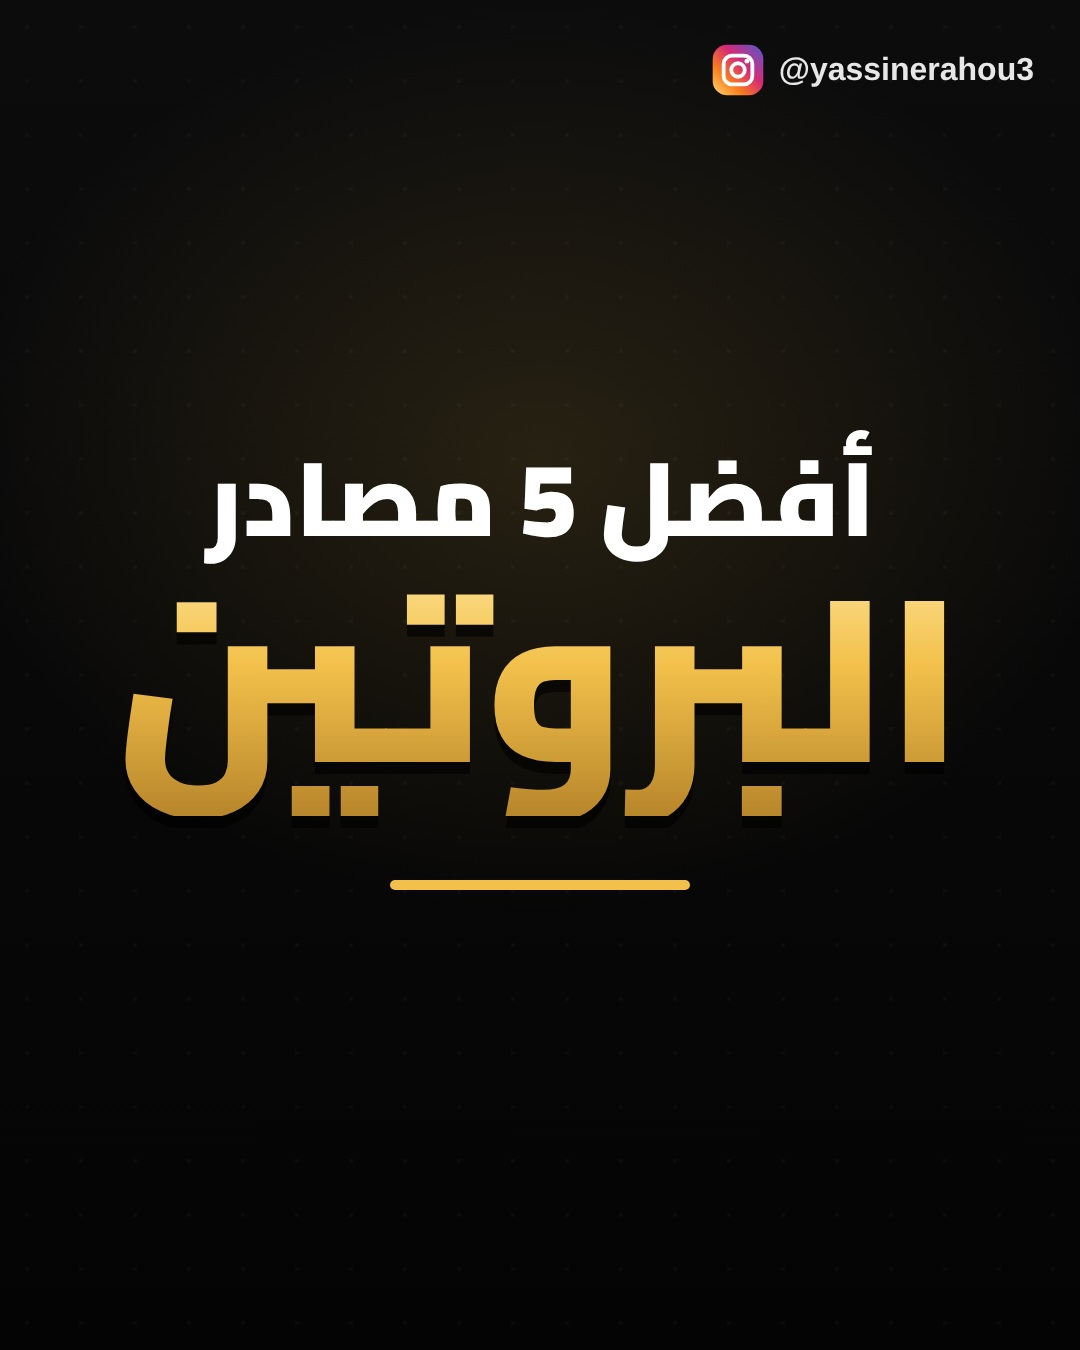
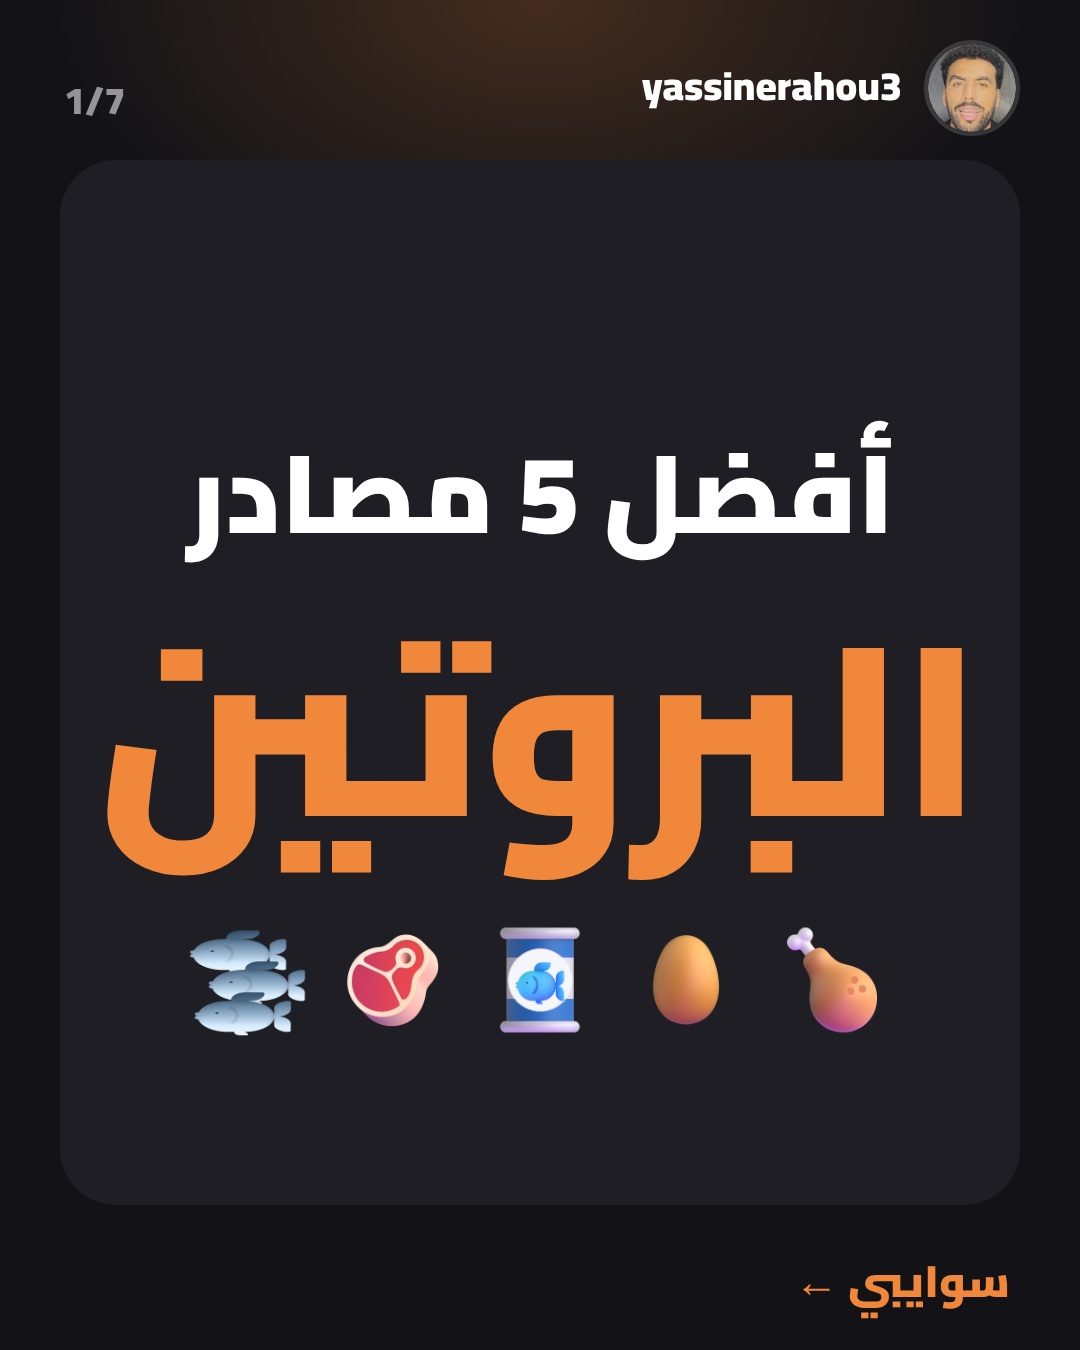
Protein carousel: new card layout (big protein number, info pill, swipe hint)
Standalone protein.html; old protein code removed from carousel.html.
The round avatar is cropped from the user's photo, kept out of git.

Claude-Session: https://claude.ai/code/session_014GNevuJ6MBkHeS731WNJp8

diff --git a/creatine-clip/thumbnails/carousel.html b/creatine-clip/thumbnails/carousel.html
@@ -53,58 +53,6 @@
   .ocard.wrap p { white-space: normal; font-size: 42px; line-height: 1.5; }
   .cta.low { top: 1050px; height: 230px; }
   .ocard.wrap p + p { margin-top: 18px; padding-top: 18px; border-top: 2px solid rgba(255,255,255,.08); }
-  /* protein post */
-  .hook1.ph1 { top: 150px; font-size: 84px; }
-  .hook2.ph2 { top: 250px; }
-  .hook2.ph2 .b { font-size: 150px; line-height: 1.2; }
-  .frame.pframe { top: 520px; gap: 16px; padding: 28px; }
-  .prow { height: 124px; border-radius: 28px; background: #141416; border: 3px solid rgba(255,255,255,.08);
-          display: flex; align-items: center; gap: 28px; padding: 0 28px 4px; }
-  .prow .pn { width: 70px; height: 70px; border-radius: 50%; background: var(--gold); color: var(--ink); font-size: 44px;
-              display: flex; align-items: center; justify-content: center; padding-bottom: 4px; flex: none; }
-  .prow .pic { width: 92px; height: 92px; border-radius: 22px; background: #fff; display: flex; align-items: center; justify-content: center; flex: none; }
-  .prow .pic img { width: 70%; height: 70%; }
-  .prow .pnm { font-size: 60px; }
-  .fname { font-size: 104px; direction: rtl; top: 180px; }
-  .fserv { top: 312px; font-size: 42px; font-weight: 700; color: rgba(255,255,255,.85); }
-  .fcard { left: 380px; top: 410px; width: 320px; height: 320px; border-radius: 70px; background: #fff; display: flex; align-items: center; justify-content: center;
-           box-shadow: 0 0 0 10px rgba(243,193,75,.25), 0 18px 0 rgba(0,0,0,.5); }
-  .fcard img { width: 66%; height: 66%; }
-  .stats { left: 70px; width: 940px; top: 800px; display: flex; gap: 24px; }
-  .st { flex: 1; height: 250px; border-radius: 36px; background: #141416; border: 3px solid rgba(255,255,255,.1);
-        display: flex; flex-direction: column; align-items: center; justify-content: center; gap: 4px; }
-  .st small { font-size: 40px; color: rgba(255,255,255,.75); }
-  .st b { font-size: 76px; line-height: 1.1; direction: ltr; white-space: nowrap; }
-  .st b i { font-style: normal; font-size: 32px; margin-left: 6px; color: rgba(255,255,255,.7); }
-  .st.main { background: linear-gradient(180deg, #ffe08a, #e3a92f); border-color: #ffe08a; color: var(--ink); }
-  .st.main small { color: rgba(11,13,16,.75); }
-  .st.main b { font-size: 92px; }
-  .fnote { left: 0; width: 1080px; top: 1095px; text-align: center; font-size: 34px; line-height: 1.5; color: rgba(255,255,255,.55); font-weight: 700; }
-  .ocard.tip { top: 330px; }
-  .ocard.tip p { font-size: 54px; }
-  /* protein post — 'pro' look */
-  #stage.pro { background: radial-gradient(900px 700px at 50% 34%, rgba(243,193,75,.13), transparent 65%), linear-gradient(180deg, #0c0c0d 0%, #040404 100%); }
-  .pt1 { left: 0; width: 1080px; top: 400px; text-align: center; font-size: 104px; }
-  .pt2 { left: 0; width: 1080px; top: 540px; text-align: center; font-size: 230px; line-height: 1.2; filter: drop-shadow(0 12px 0 rgba(0,0,0,.6)); }
-  .ptline { left: 390px; top: 880px; width: 300px; height: 10px; border-radius: 5px; background: var(--gold); }
-  .bignum { left: 0; width: 1080px; top: 70px; text-align: center; font-size: 560px; line-height: 1; direction: ltr;
-            color: transparent; -webkit-text-stroke: 4px rgba(243,193,75,.16); }
-  .glow { left: 240px; top: 150px; width: 600px; height: 560px; border-radius: 50%; background: radial-gradient(closest-side, rgba(243,193,75,.38), rgba(243,193,75,0)); }
-  .fimg { left: 330px; top: 200px; width: 420px; height: 420px; display: flex; align-items: center; justify-content: center; }
-  .fimg img { width: 100%; height: 100%; object-fit: contain; filter: drop-shadow(0 26px 26px rgba(0,0,0,.6)); }
-  .fshadow { left: 380px; top: 640px; width: 320px; height: 40px; border-radius: 50%; background: radial-gradient(closest-side, rgba(0,0,0,.75), transparent); }
-  .fname2 { left: 0; width: 1080px; top: 690px; text-align: center; font-size: 112px; line-height: 1.2; }
-  .fserv2 { left: 0; width: 1080px; top: 830px; text-align: center; font-size: 40px; font-weight: 700; color: rgba(255,255,255,.8); }
-  .stats2 { left: 70px; width: 940px; top: 920px; display: flex; gap: 22px; }
-  .st2 { flex: 1; height: 230px; border-radius: 34px; background: rgba(255,255,255,.05); border: 2px solid rgba(255,255,255,.14);
-         display: flex; flex-direction: column; align-items: center; justify-content: center; gap: 2px; }
-  .st2 small { font-size: 38px; color: rgba(255,255,255,.7); }
-  .st2 b { font-size: 74px; line-height: 1.1; direction: ltr; white-space: nowrap; }
-  .st2 b i { font-style: normal; font-size: 30px; margin-left: 6px; color: rgba(255,255,255,.6); }
-  .st2.main { background: linear-gradient(180deg, #ffe08a, #e3a92f); border-color: #ffe08a; color: var(--ink); box-shadow: 0 0 40px rgba(243,193,75,.35); }
-  .st2.main small { color: rgba(11,13,16,.75); }
-  .st2.main b { font-size: 90px; }
-  .fnote2 { left: 0; width: 1080px; top: 1185px; text-align: center; font-size: 32px; line-height: 1.5; color: rgba(255,255,255,.5); font-weight: 700; }
   /* session slides (same look as the video day pages) */
   .dchip { left: 0; width: 1080px; top: 116px; display: flex; justify-content: center; }
   .dchip span { height: 66px; padding: 0 34px 6px; border-radius: 33px; border: 4px solid var(--gold); color: var(--gold); font-size: 40px; line-height: 56px; }
@@ -155,7 +103,7 @@
 <script>
   // ?set=bro (BRO SPLIT, default) or ?set=ul (UPPER / LOWER): loads that video's program data
   const SET = new URLSearchParams(location.search).get('set') || 'bro';
-  if (SET !== 'protein') document.write(`<script src="../clips/${SET === 'ul' ? '07-upper-lower' : '06-bro-split'}/timeline.js"><\/script>`);
+  document.write(`<script src="../clips/${SET === 'ul' ? '07-upper-lower' : '06-bro-split'}/timeline.js"><\/script>`);
 </script>
 <script>
 const root = document.getElementById('content');
@@ -168,7 +116,7 @@ const ICON = {
 };
 const cta = (items) => el('cta', `<div class="t">إلى عجبك البوسط</div><div class="i">${items.map(([k, w]) => `<div>${ICON[k]}${w}</div>`).join('')}</div>`);
 
-const TRAIN = window.TL ? TL.pages.filter((p) => !p.rest) : [];
+const TRAIN = TL.pages.filter((p) => !p.rest);
 const CFG = {
   bro: {
     hook: () => {
@@ -204,45 +152,10 @@ const CFG = {
     },
   },
 }[SET];
-// ---- protein post: values are approximate (USDA FoodData Central) ----
-const FOODS = [
-  { name: 'صدر الدجاج', img: 'chicken', serving: '100g مطيب', p: '31g', kcal: '165', fat: '3.6g' },
-  { name: 'البيض', img: 'egg', serving: 'بيضة وحدة كبيرة (50g تقريبا)', p: '6.3g', kcal: '72', fat: '4.8g' },
-  { name: 'الطون', img: 'tuna', serving: '100g مصفي (طون فالما)', p: '26g', kcal: '116', fat: '0.8g', note: 'إلا كان فالزيت: 198 سعرة و 8g دهون' },
-  { name: 'اللحم', img: 'meat', serving: '100g لحم بقري قليل الدهون، مطيب', p: '26g', kcal: '217', fat: '12g' },
-  { name: 'السردين', img: 'sardines', serving: '100g (حك فالزيت، مصفي)', p: '25g', kcal: '208', fat: '11g' },
-];
-function renderProtein(slide) {
-  document.getElementById('stage').classList.add('pro');
-  if (slide === 1) {
-    el('pt1', 'أفضل 5 مصادر');
-    el('pt2 goldtxt', 'البروتين');
-    el('ptline', '');
-  } else if (slide <= FOODS.length + 1) {
-    const f = FOODS[slide - 2];
-    el('bignum', String(slide - 1).padStart(2, '0'));
-    el('glow', '');
-    el('fimg', `<img src="../food3d/${f.img}.png">`);
-    el('fshadow', '');
-    el('fname2 goldtxt', f.name);
-    el('fserv2', f.serving);
-    el('stats2', `<div class="st2 main"><small>بروتين</small><b>${f.p}</b></div><div class="st2"><small>سعرات</small><b>${f.kcal}<i>kcal</i></b></div><div class="st2"><small>دهون</small><b>${f.fat}</b></div>`);
-    el('fnote2', (f.note ? f.note + '<br>' : '') + 'القيم تقريبية');
-  } else {
-    el('otitle goldtxt high', 'نصيحة');
-    el('ocard wrap tip', `<p><span class="g">البروتين</span> من بين أهم العناصر الغذائية لبناء العضلات.</p><p>ختار داك الشي اللي عندك.</p>`);
-    cta([['like', 'لايك'], ['follow', 'فلو'], ['comment', 'كومنت'], ['save', 'سيف']]);
-    const c = document.querySelector('.cta');
-    c.classList.add('low');
-    c.querySelector('.t').textContent = 'سيف البوسط باش ترجع ليه';
-  }
-}
-const N = SET === 'protein' ? FOODS.length + 2 : 2 + TRAIN.length;
+const N = 2 + TRAIN.length;
 const slide = +(new URLSearchParams(location.search).get('slide') || 1);
 
-if (SET === 'protein') {
-  renderProtein(slide);
-} else if (slide === 1) {
+if (slide === 1) {
   const week = CFG.hook();
   el('frame' + (SET === 'ul' ? ' big' : ''), week.map(([d, w, cls]) => `<div class="wk${w === 'راحة' ? ' rest' : ''}"><div class="d goldtxt">${d}</div><div class="w ${cls || ''}">${w}</div></div>`).join(''));
 } else if (slide <= 1 + TRAIN.length) {

diff --git a/creatine-clip/thumbnails/protein.html b/creatine-clip/thumbnails/protein.html
@@ -1,0 +1,106 @@
+<!DOCTYPE html>
+<html lang="ar" dir="rtl">
+<head>
+<meta charset="utf-8">
+<title>Top 5 protein sources</title>
+<style>
+  @font-face { font-family: Cairo; font-weight: 700; src: url(../fonts/cairo-arabic-700-normal.woff2) format('woff2'); }
+  @font-face { font-family: Cairo; font-weight: 900; src: url(../fonts/cairo-arabic-900-normal.woff2) format('woff2'); }
+  @font-face { font-family: Cairo; font-weight: 900; src: url(../fonts/cairo-latin-900-normal.woff2) format('woff2'); unicode-range: U+0000-00FF; }
+  :root { --or: #f0873a; --or2: #ff9f4d; }
+  * { box-sizing: border-box; margin: 0; padding: 0; }
+  html, body { width: 1080px; height: 1350px; overflow: hidden; }
+  #stage { position: relative; width: 1080px; height: 1350px; overflow: hidden; font-family: Cairo, sans-serif; font-weight: 900; color: #fff;
+           background: radial-gradient(700px 420px at 50% 0%, rgba(240,135,58,.22), transparent 70%), #131317; }
+  .abs { position: absolute; }
+
+  /* header: counter (left) + handle and photo (right) */
+  .count { left: 64px; top: 64px; font-size: 38px; color: rgba(255,255,255,.55); direction: ltr; }
+  .who { right: 60px; top: 40px; display: flex; align-items: center; gap: 22px; direction: ltr; }
+  .who span { font-size: 40px; padding-bottom: 6px; }
+  .who img { width: 96px; height: 96px; border-radius: 50%; border: 4px solid rgba(255,255,255,.15); object-fit: cover; }
+
+  /* inner card */
+  .card { left: 60px; top: 160px; width: 960px; height: 1045px; border-radius: 56px; background: #1e1e24;
+          display: flex; flex-direction: column; align-items: center; }
+  .card .img { width: 210px; height: 210px; margin-top: 36px; }
+  .card .img img { width: 100%; height: 100%; object-fit: contain; filter: drop-shadow(0 16px 18px rgba(0,0,0,.5)); }
+  .card .nm { font-size: 116px; line-height: 1.1; margin-top: 6px; }
+  .card .sv { font-size: 44px; line-height: 1.4; color: rgba(255,255,255,.55); }
+  .card .big { font-size: 210px; line-height: .95; color: var(--or); direction: ltr; margin-top: 18px; letter-spacing: -4px; }
+  .card .lb { font-size: 56px; line-height: 1.3; color: var(--or); }
+  .card .pill { margin-top: 22px; height: 100px; padding: 0 56px 8px; border-radius: 50px; background: #2b2b33;
+                font-size: 50px; line-height: 92px; white-space: nowrap; }
+  .card .pill .l { direction: ltr; display: inline-block; }
+  .card .tag { margin-top: 22px; font-size: 42px; line-height: 1.3; color: rgba(255,255,255,.5); font-weight: 700; }
+
+  .swipe { right: 70px; top: 1240px; font-size: 44px; color: var(--or); }
+  .note { left: 70px; top: 1252px; font-size: 30px; color: rgba(255,255,255,.35); font-weight: 700; }
+
+  /* cover */
+  .cover .t1 { font-size: 110px; margin-top: 230px; }
+  .cover .t2 { font-size: 240px; line-height: 1.1; color: var(--or); }
+  .cover .icons { display: flex; gap: 26px; margin-top: 60px; direction: rtl; }
+  .cover .icons img { width: 120px; height: 120px; object-fit: contain; }
+
+  /* last slide */
+  .tip .t { font-size: 120px; color: var(--or); margin-top: 90px; }
+  .tip p { font-size: 58px; line-height: 1.5; text-align: center; padding: 0 80px; margin-top: 40px; }
+  .tip p b { color: var(--or); }
+  .tip .cta { margin-top: auto; margin-bottom: 60px; width: 840px; border-radius: 40px; background: #2b2b33; padding: 34px 0 40px;
+              display: flex; flex-direction: column; align-items: center; gap: 22px; }
+  .tip .cta .h { font-size: 52px; }
+  .tip .cta .i { display: flex; gap: 44px; }
+  .tip .cta .i div { display: flex; align-items: center; gap: 12px; font-size: 44px; color: rgba(255,255,255,.85); }
+</style>
+</head>
+<body>
+<div id="stage">
+  <div class="abs count"></div>
+  <div class="abs who"><span>yassinerahou3</span><img src="photos/avatar.png" onerror="this.style.display='none'"></div>
+  <div id="content"></div>
+</div>
+<script>
+// Values are approximate (USDA FoodData Central). Images: Fluent Emoji 3D (MIT); tuna can + sardines edited from it.
+const FOODS = [
+  { name: 'صدر الدجاج', img: 'chicken', serving: '100g مطيب', p: '31g', kcal: 165, fat: '3.6g', tag: 'قليل الدهون وغني بالبروتين' },
+  { name: 'البيض', img: 'egg', serving: 'بيضة وحدة', p: '6g', kcal: 72, fat: '4.8g', tag: 'بروتين كامل وساهل فالطياب' },
+  { name: 'الطون', img: 'tuna', serving: '100g مصفي (طون فالما)', p: '26g', kcal: 116, fat: '0.8g', tag: 'إلا كان فالزيت: 198 سعرة و 8g دهون' },
+  { name: 'اللحم', img: 'meat', serving: '100g لحم بقري قليل الدهون', p: '26g', kcal: 217, fat: '12g', tag: 'غني بالبروتين والحديد' },
+  { name: 'السردين', img: 'sardines', serving: '100g (حك فالزيت، مصفي)', p: '25g', kcal: 208, fat: '11g', tag: 'غني بالأوميغا 3' },
+];
+const N = FOODS.length + 2;
+const slide = +(new URLSearchParams(location.search).get('slide') || 1);
+const root = document.getElementById('content');
+const add = (cls, html) => { const d = document.createElement('div'); d.className = 'abs ' + cls; d.innerHTML = html; root.appendChild(d); return d; };
+document.querySelector('.count').textContent = `${slide}/${N}`;
+
+if (slide === 1) {
+  add('card cover', `<div class="t1">أفضل 5 مصادر</div><div class="t2">البروتين</div>
+    <div class="icons">${FOODS.map((f) => `<img src="../food3d/${f.img}.png">`).join('')}</div>`);
+  add('swipe', 'سوايبي ←');
+} else if (slide <= FOODS.length + 1) {
+  const f = FOODS[slide - 2];
+  add('card', `<div class="img"><img src="../food3d/${f.img}.png"></div><div class="nm">${f.name}</div><div class="sv">${f.serving}</div>
+    <div class="big">${f.p}</div><div class="lb">بروتين</div>
+    <div class="pill"><span class="l">${f.kcal} kcal</span> · ${f.fat} دهون</div><div class="tag">${f.tag}</div>`);
+  add('note', 'القيم تقريبية');
+  add('swipe', 'سوايبي ←');
+} else {
+  const I = {
+    like: '<svg width="48" height="48" viewBox="0 0 24 24"><path d="M12 21s-8-5.3-8-11.2A4.6 4.6 0 0 1 12 7a4.6 4.6 0 0 1 8 2.8C20 15.7 12 21 12 21z" fill="#e0245e"/></svg>',
+    follow: '<svg width="48" height="48" viewBox="0 0 24 24" fill="none" stroke="#fff" stroke-width="2.2" stroke-linecap="round"><circle cx="10" cy="8" r="4"/><path d="M3 20c0-4 3-6 7-6s7 2 7 6M19 8v6M16 11h6"/></svg>',
+    comment: '<svg width="48" height="48" viewBox="0 0 24 24" fill="none" stroke="#fff" stroke-width="2.2" stroke-linejoin="round"><path d="M21 12a8 8 0 0 1-11.6 7.1L4 20.5l1.4-4.6A8 8 0 1 1 21 12z"/></svg>',
+    save: '<svg width="48" height="48" viewBox="0 0 24 24" fill="#f0873a" stroke="#f0873a" stroke-width="2.2" stroke-linejoin="round"><path d="M6 3h12v18l-6-4.5L6 21z"/></svg>',
+  };
+  add('card tip', `<div class="t">نصيحة</div>
+    <p><b>البروتين</b> من بين أهم العناصر الغذائية لبناء العضلات.</p>
+    <p>ختار داك الشي اللي عندك.</p>
+    <div class="cta"><div class="h">سيف البوسط باش ترجع ليه</div>
+      <div class="i"><div>${I.like}لايك</div><div>${I.follow}فلو</div><div>${I.comment}كومنت</div><div>${I.save}سيف</div></div></div>`);
+}
+window.N = N;
+window.ready = Promise.all([document.fonts.ready, ...[...document.images].map((i) => i.decode().catch(() => {}))]);
+</script>
+</body>
+</html>

diff --git a/creatine-clip/thumbnails/carousel.js b/creatine-clip/thumbnails/carousel.js
@@ -1,4 +1,4 @@
-// Renders every slide of carousel.html to Exports/<set dir>/NN.jpg (1080x1350, Instagram 4:5).
+// Renders every slide of carousel.html (protein: protein.html) to Exports/<set dir>/NN.jpg (1080x1350, Instagram 4:5).
 // Usage: node creatine-clip/thumbnails/carousel.js [bro|ul|protein]
 const fs = require('fs');
 const path = require('path');
@@ -13,7 +13,8 @@ const OUT = path.resolve(__dirname, '..', '..', 'Exports', { bro: 'bro-split-car
   const page = await browser.newPage({ viewport: { width: 1080, height: 1350 }, deviceScaleFactor: 1 });
   let n = 1;
   for (let s = 1; s <= n; s++) {
-    await page.goto(`file://${path.join(__dirname, 'carousel.html')}?set=${SET}&slide=${s}`);
+    const html = SET === 'protein' ? 'protein.html' : 'carousel.html';
+    await page.goto(`file://${path.join(__dirname, html)}?set=${SET}&slide=${s}`);
     await page.evaluate(() => window.ready);
     n = await page.evaluate(() => window.N);
     const file = path.join(OUT, `${String(s).padStart(2, '0')}.jpg`);
